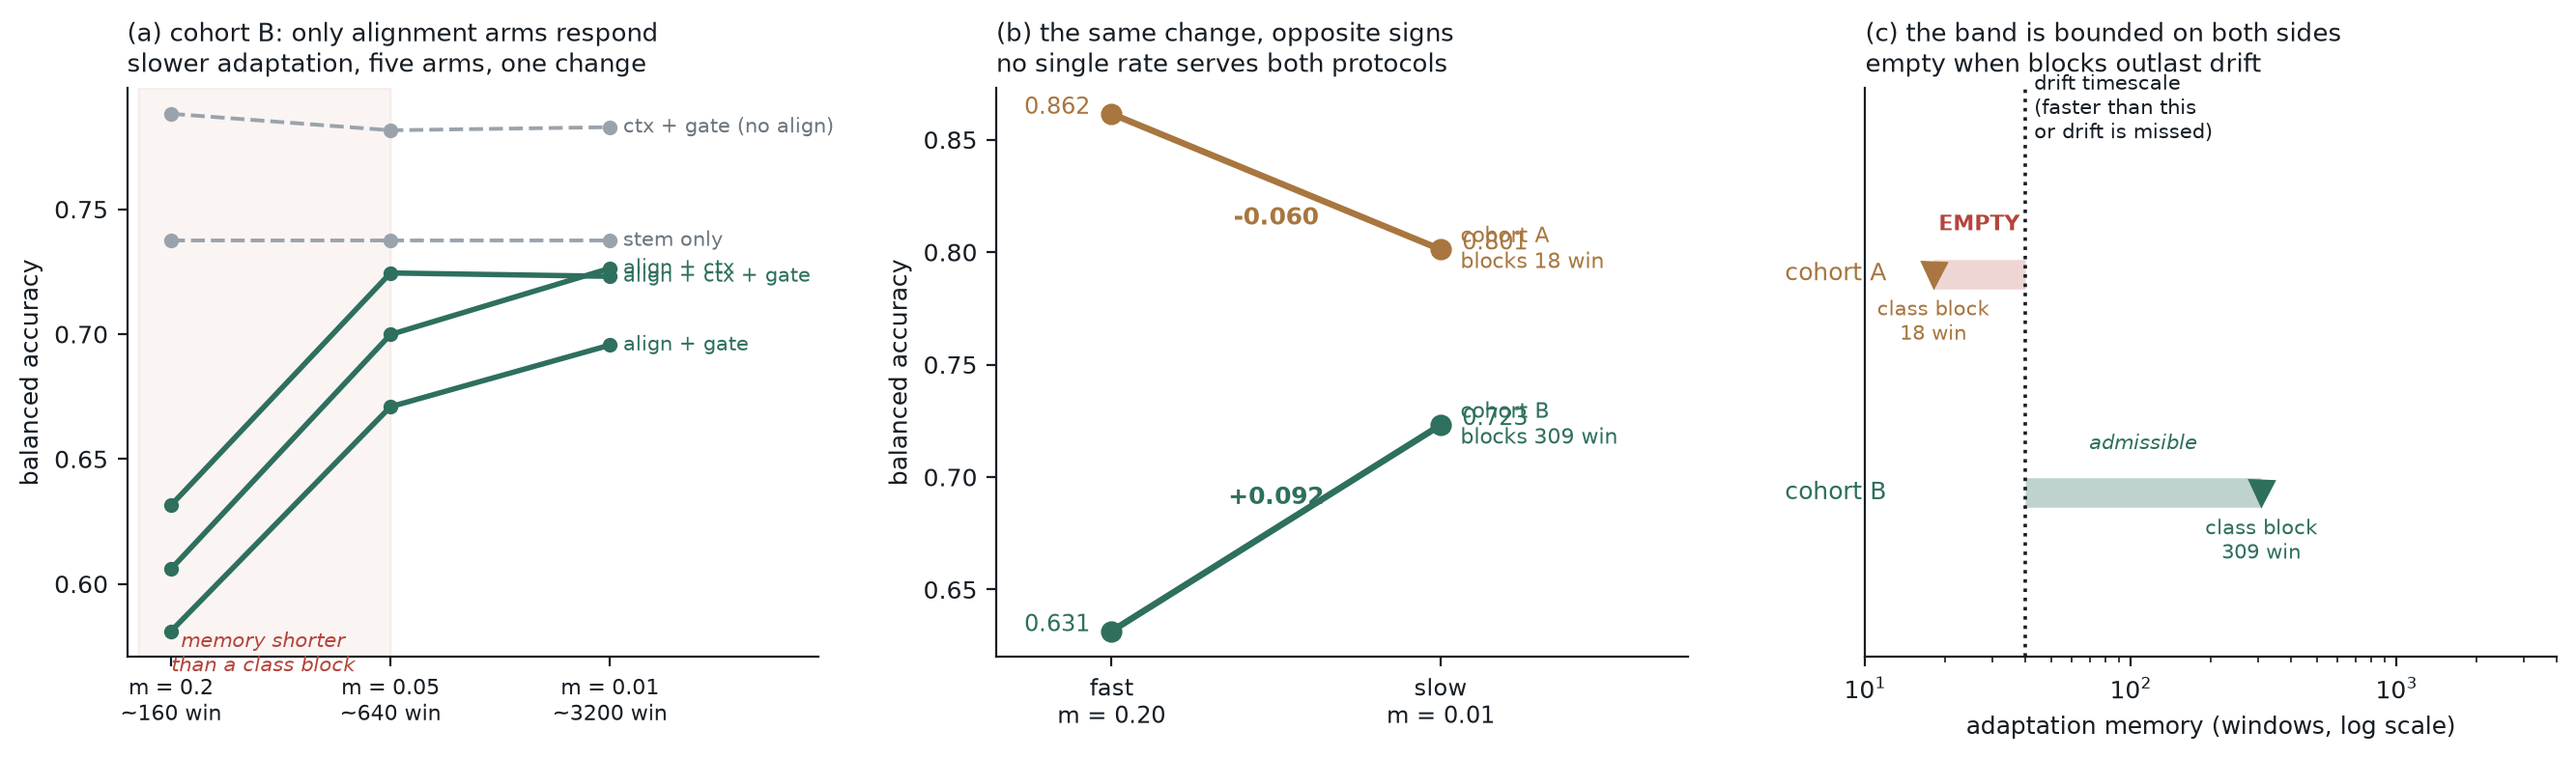
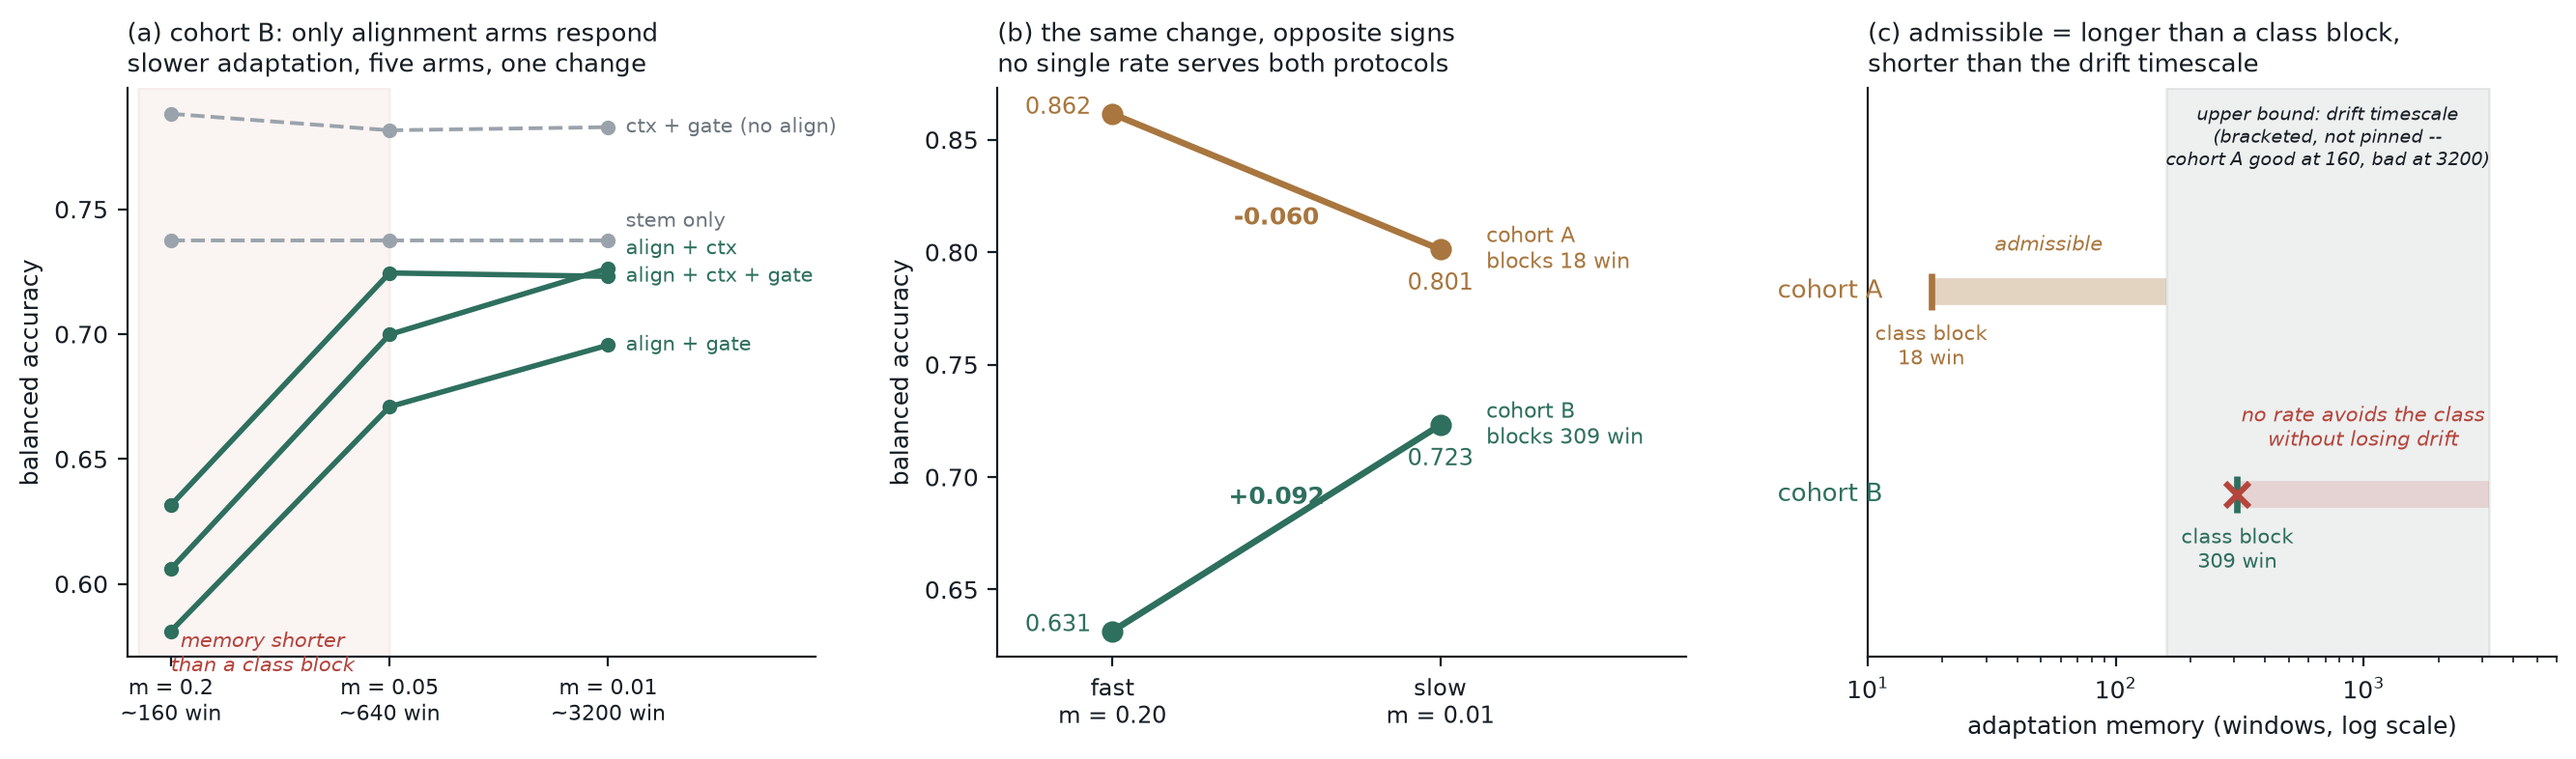
Correct the parameter count: the best arm is 24k, not 619k
The 595k was the cross-epoch transformer, which the best configuration
removes. align+gate is 24,181 parameters and reaches 0.884, against ATCNet
45,280 at 0.881 and EEGConformer 440,706 at 0.834. Removing 96% of the
parameters improved accuracy by 0.023.

Stated as an efficiency observation, not a contribution: the baselines were
not compressed, and the accuracy comparison remains inside noise.

Also: figure 2 panel (c) had the admissibility inequality inverted (it drew
cohort A as the empty band); rewritten so admissible = longer than a class
block AND shorter than the drift timescale, with the upper bound drawn as the
bracket it actually is. Cohort A delta corrected -0.061 -> -0.060, computed at
full precision rather than from rounded cells.

diff --git a/src/make_fig_rate.py b/src/make_fig_rate.py
@@ -71,6 +71,7 @@ def main():
             ("dn_stem", "stem only", False)]
     mom = [0.20, 0.05, 0.01]
     x = np.arange(3)
+    lbl_y = []
     for a, lab, uses in arms:
         # prefer matched-version baseline at m=0.20 where one exists
         base = acc(m020c, a) or acc(m020f, a) or acc(m020, a)
@@ -80,8 +81,13 @@ def main():
         ax.plot(x, ys, "-o", ms=4.5, lw=2.0 if uses else 1.4,
                 color=ALIGN if uses else GREY,
                 ls="-" if uses else "--", zorder=3 if uses else 2)
-        ax.annotate(lab, (x[-1] + 0.06, ys[-1]), va="center", fontsize=7.5,
-                    color=ALIGN if uses else "#6C757D")
+        lbl_y.append((ys[-1], lab, ALIGN if uses else "#6C757D"))
+    lbl_y.sort()
+    for i in range(1, len(lbl_y)):
+        if lbl_y[i][0] - lbl_y[i - 1][0] < 0.011:
+            lbl_y[i] = (lbl_y[i - 1][0] + 0.011, lbl_y[i][1], lbl_y[i][2])
+    for yv, lab, col in lbl_y:
+        ax.annotate(lab, (x[-1] + 0.08, yv), va="center", fontsize=7.5, color=col)
     ax.axvspan(-0.15, 1.0, color=BAD, alpha=0.06, zorder=0)
     ax.text(0.42, 0.565, "memory shorter\nthan a class block", ha="center",
             fontsize=7.5, color=BAD, style="italic")
@@ -104,12 +110,12 @@ def main():
         ax.annotate(f"{fast:.3f}", (0, fast), textcoords="offset points",
                     xytext=(-8, 0), ha="right", fontsize=8.5, color=c)
         ax.annotate(f"{slow:.3f}", (1, slow), textcoords="offset points",
-                    xytext=(8, 0), ha="left", fontsize=8.5, color=c)
+                    xytext=(0, -15), ha="center", fontsize=8.5, color=c)
         mid = (fast + slow) / 2
         ax.annotate(f"{slow-fast:+.3f}", (0.5, mid), textcoords="offset points",
                     xytext=(0, 9 if slow > fast else -16), ha="center",
                     fontsize=9, color=c, fontweight="bold")
-        ax.annotate(lab, (1.06, slow), fontsize=8, color=c, va="center")
+        ax.annotate(lab, (1.14, slow), fontsize=8, color=c, va="center")
     ax.set_xticks([0, 1])
     ax.set_xticklabels(["fast\nm = 0.20", "slow\nm = 0.01"], fontsize=8.5)
     ax.set_xlim(-0.35, 1.75)
@@ -119,36 +125,45 @@ def main():
                  fontsize=9.5, loc="left")
 
     # ---- (c) the admissible band --------------------------------------------
+    # Memory must EXCEED the class-block duration (or it tracks the class) and
+    # stay BELOW the drift timescale (or it stops tracking drift). The upper
+    # bound is bracketed, not pinned: cohort A is good at ~160 windows and bad
+    # at ~3200, so it lies between. Drawn as an uncertainty band.
     ax = axes[2]
-    # log-scale window counts
-    drift = 40          # rate must be faster than this to track session drift
-    for i, (lab, block, col) in enumerate([("cohort A", 18, RAW), ("cohort B", 309, ALIGN)]):
-        y = 1 - i
-        lo, hi = drift, block
-        if hi > lo:
-            ax.plot([lo, hi], [y, y], lw=11, color=col, alpha=0.30,
-                    solid_capstyle="butt")
-            ax.text(np.sqrt(lo * hi), y + 0.20, "admissible", ha="center",
-                    fontsize=7.5, color=col, style="italic")
+    UP_LO, UP_HI = 160, 3200
+    ax.axvspan(UP_LO, UP_HI, color=INK, alpha=0.07, zorder=0)
+    ax.text(np.sqrt(UP_LO * UP_HI), 1.62,
+            "upper bound: drift timescale\n(bracketed, not pinned --\n"
+            "cohort A good at 160, bad at 3200)",
+            ha="center", fontsize=7.0, color=INK, style="italic")
+
+    for k, (lab, block, col) in enumerate([("cohort A", 18, RAW),
+                                           ("cohort B", 309, ALIGN)]):
+        y = 1 - k
+        ax.plot([block], [y], "|", ms=14, mew=2.4, color=col, zorder=5)
+        ax.annotate(f"class block\n{block} win", (block, y - 0.36), ha="center",
+                    fontsize=7.5, color=col)
+        ax.text(11.5, y, lab, ha="right", fontsize=9.5, va="center", color=col)
+        if block < UP_LO:
+            ax.plot([block, UP_LO], [y, y], lw=10, color=col, alpha=0.32,
+                    solid_capstyle="butt", zorder=2)
+            ax.annotate("admissible", (np.sqrt(block * UP_LO), y + 0.20),
+                        ha="center", fontsize=7.5, color=col, style="italic")
         else:
-            ax.plot([hi, lo], [y, y], lw=11, color=BAD, alpha=0.22,
-                    solid_capstyle="butt")
-            ax.text(np.sqrt(lo * hi), y + 0.20, "EMPTY", ha="center",
-                    fontsize=8, color=BAD, fontweight="bold")
-        ax.plot([block], [y], "v", ms=9, color=col, zorder=4)
-        ax.text(block, y - 0.30, f"class block\n{block} win", ha="center",
-                fontsize=7.5, color=col)
-        ax.text(12, y, lab, ha="right", fontsize=9, va="center", color=col)
-    ax.axvline(drift, color=INK, ls=":", lw=1.3)
-    ax.text(drift * 1.08, 1.62, "drift timescale\n(faster than this\nor drift is missed)",
-            fontsize=7.5, color=INK)
+            ax.plot([block, UP_HI], [y, y], lw=10, color=BAD, alpha=0.16,
+                    solid_capstyle="butt", zorder=2)
+            ax.annotate("no rate avoids the class\nwithout losing drift",
+                        (np.sqrt(block * UP_HI), y + 0.24), ha="center",
+                        fontsize=7.5, color=BAD, style="italic")
+            ax.plot([block], [y], "x", ms=9, mew=2.2, color=BAD, zorder=6)
+
     ax.set_xscale("log")
-    ax.set_xlim(10, 4000)
-    ax.set_ylim(-0.75, 1.85)
+    ax.set_xlim(10, 6000)
+    ax.set_ylim(-0.8, 2.0)
     ax.set_yticks([])
     ax.set_xlabel("adaptation memory (windows, log scale)")
-    ax.set_title("(c) the band is bounded on both sides\n"
-                 "empty when blocks outlast drift", fontsize=9.5, loc="left")
+    ax.set_title("(c) admissible = longer than a class block,\n"
+                 "shorter than the drift timescale", fontsize=9.5, loc="left")
 
     fig.tight_layout()
     out = RESULTS / "fig_rate.png"

diff --git a/paper/driftnet_draft.md b/paper/driftnet_draft.md
@@ -39,7 +39,7 @@ memory ~1/*m* batches -- and observed where predicted: slowing adaptation past t
 alignment, and 0.000, exactly, on both arms that do not.
 
 **The condition is two-sided.** Applying the same change to the primary cohort,
-where we predicted it would be free, instead costs 0.061. The rate must be fast
+where we predicted it would be free, instead costs 0.060. The rate must be fast
 enough to track drift and slow enough not to track class; the two cohorts' optima
 are opposite, each losing 0.06-0.09 at the other's setting. Where class blocks
 outlast the drift timescale the admissible band is empty, and the layer should be
@@ -68,7 +68,7 @@ two effects and the metric scores one.
 | On cohort A it is *necessary*: removing it collapses the model to its bare stem | **supported** | 0.827 = 0.827, ablation |
 | **The model beats published decoders on cohort A** | **NOT supported** | 0.884 vs ATCNet 0.881 at matched seed and estimator: +0.003, inside the +-0.005 noise. EEGNeX reaches 0.896 at seed 1. The 0.901 previously quoted used the pre-fix estimator and compared one seed against 2-seed means. |
 | The layer's adaptation memory must exceed the class-block duration | **supported** | predicted threshold, step of +0.090 to +0.098 on all 3 alignment arms, 0.000 on both alignment-free arms |
-| ...but must also stay short enough to track drift: the rate is **two-sided** | **supported** | the same change is +0.092 on cohort B and **-0.061** on cohort A |
+| ...but must also stay short enough to track drift: the rate is **two-sided** | **supported** | the same change is +0.092 on cohort B and **-0.060** on cohort A |
 | No single adaptation rate serves both cohorts | **supported** | optima are 0.01 and 0.20 respectively; each is 0.06-0.09 worse at the other's setting |
 | **The architecture generalises** | **NOT supported** | on cohort B the *bare stem* beats the full model, 0.737 vs 0.626 |
 | **Alignment helps decoding** | **NOT supported** | +0.051 on cohort A, -0.060 to -0.166 on cohort B |
@@ -95,7 +95,7 @@ evaluation protocol that preceded it:
    did not follow.
    A fourth case is the sharpest, because it is a *prediction we registered and
    lost*: we predicted slowing adaptation would be neutral on cohort A, since its
-   class blocks already sit far inside the fastest memory. It cost 0.061. The
+   class blocks already sit far inside the fastest memory. It cost 0.060. The
    estimate had been doing useful work we had not accounted for -- tracking
    genuine drift -- and the metric we were optimising could not see it.
 4. The movement-leakage probe used throughout the preceding work is confounded
@@ -395,7 +395,7 @@ section 7.5 twelve times the noise.
 **A one-sided rule would be wrong.** The obvious reading of this table is "set
 the adaptation memory longer than the class-block duration, and when in doubt go
 slower." Cohort B alone supports it. Section 7.5 tests it on cohort A and it
-fails: the same change that recovers +0.092 there costs -0.061 here. The rule is
+fails: the same change that recovers +0.092 there costs -0.060 here. The rule is
 two-sided, and we state it in its corrected form in 7.5 rather than here.
 
 ### 7.5 The rate is two-sided, and that explains the residual
@@ -404,18 +404,19 @@ Applying the same momentum change to cohort A produces the **opposite** result:
 
 | cohort | m = 0.20 | m = 0.01 | delta |
 |---|---|---|---|
-| A (ds007788), class blocks 18 windows | **0.862** | 0.801 | **-0.061** |
+| A (ds007788), class blocks 18 windows | **0.862** | 0.801 | **-0.060** |
 | B (MoBI), class blocks 309 windows | 0.631 | **0.723** | **+0.092** |
 
 Both cells in each row come from the same code version (the corrected per-window
 estimator of section 7.3). An earlier draft of this table quoted -0.077 and
-+0.097 by taking the m = 0.20 baselines from runs that predate that correction;
++0.097 by taking the m = 0.20 baselines from runs that predate that correction; deltas here are
+computed at full precision rather than from the rounded cell values;
 the direction and magnitude survive, the exact deltas do not. The mixed-version
 numbers should not be cited.
 
 We predicted cohort A would be roughly neutral, on the grounds that its class
 blocks sit far below even the fastest setting's memory so the estimate was
-already class-mixed. It is not neutral: slowing adaptation costs 0.061 there.
+already class-mixed. It is not neutral: slowing adaptation costs 0.060 there.
 **There is no universal setting, and error in either direction costs 0.06-0.09.**
 
 The mechanism is therefore two-sided. The running estimate tracks whatever varies
@@ -459,7 +460,13 @@ Same harness, full data, 2 seeds (`results/fullbench.json`):
 | ShallowFBCSPNet | 97 120 | 0.856 | 0.877 | 0.867 |
 | CALMNet-bare (ours, prior) | 3 946 | 0.878 | 0.838 | 0.858 |
 | EEGConformer | 440 706 | 0.834 | 0.852 | 0.843 |
-| **DriftNet, align + gate (ours)** | 619 k | **0.884** | *pending* | -- |
+| **DriftNet, align + gate (ours)** | **24 181** | **0.884** | *pending* | -- |
+
+**Parameter count.** The best configuration carries 24 181 parameters: the
+cross-epoch transformer accounts for 594 816 of the 618 997 in `dn_full`, and
+removing it both shrinks the model by 96 % and improves accuracy by 0.023. The
+remaining budget is 6 768 in the power stem, 12 608 in the frame embedding,
+4 161 in the selective head, and a single scalar in the alignment layer.
 
 **We do not claim an accuracy improvement.** At matched seed and matched
 estimator version, the best DriftNet configuration is +0.003 on ATCNet, inside
@@ -468,6 +475,12 @@ among the baselines reaches 0.041 (EEGNeX), which is an order of magnitude large
 than the gap. A single-seed ranking here would be meaningless, and the 0.901
 figure quoted in earlier drafts compounded two errors: it used the pre-fix
 estimator, and it compared one seed of ours against 2-seed means of theirs.
+
+What can be said is narrower and does not depend on winning a noisy comparison:
+the configuration reaches parity with the field at roughly half ATCNet's
+parameter count and 5 % of EEGConformer's. We report that as an efficiency
+observation, not a contribution, since no attempt was made to compress the
+baselines.
 
 The architecture is the vehicle for the rate finding, not a performance claim.
 Note also that the configuration that wins on cohort A (`align + gate`, the most
@@ -491,7 +504,7 @@ which we produced by acting on that assumption ourselves:
 
 5. We predicted, on record and before running it, that slowing adaptation would
    be neutral on cohort A because its class blocks already sit far inside the
-   fastest memory. It cost 0.061 -- the prediction failed because it accounted
+   fastest memory. It cost 0.060 -- the prediction failed because it accounted
    only for the harm the estimate can do and not for the benefit it was
    delivering.
 
